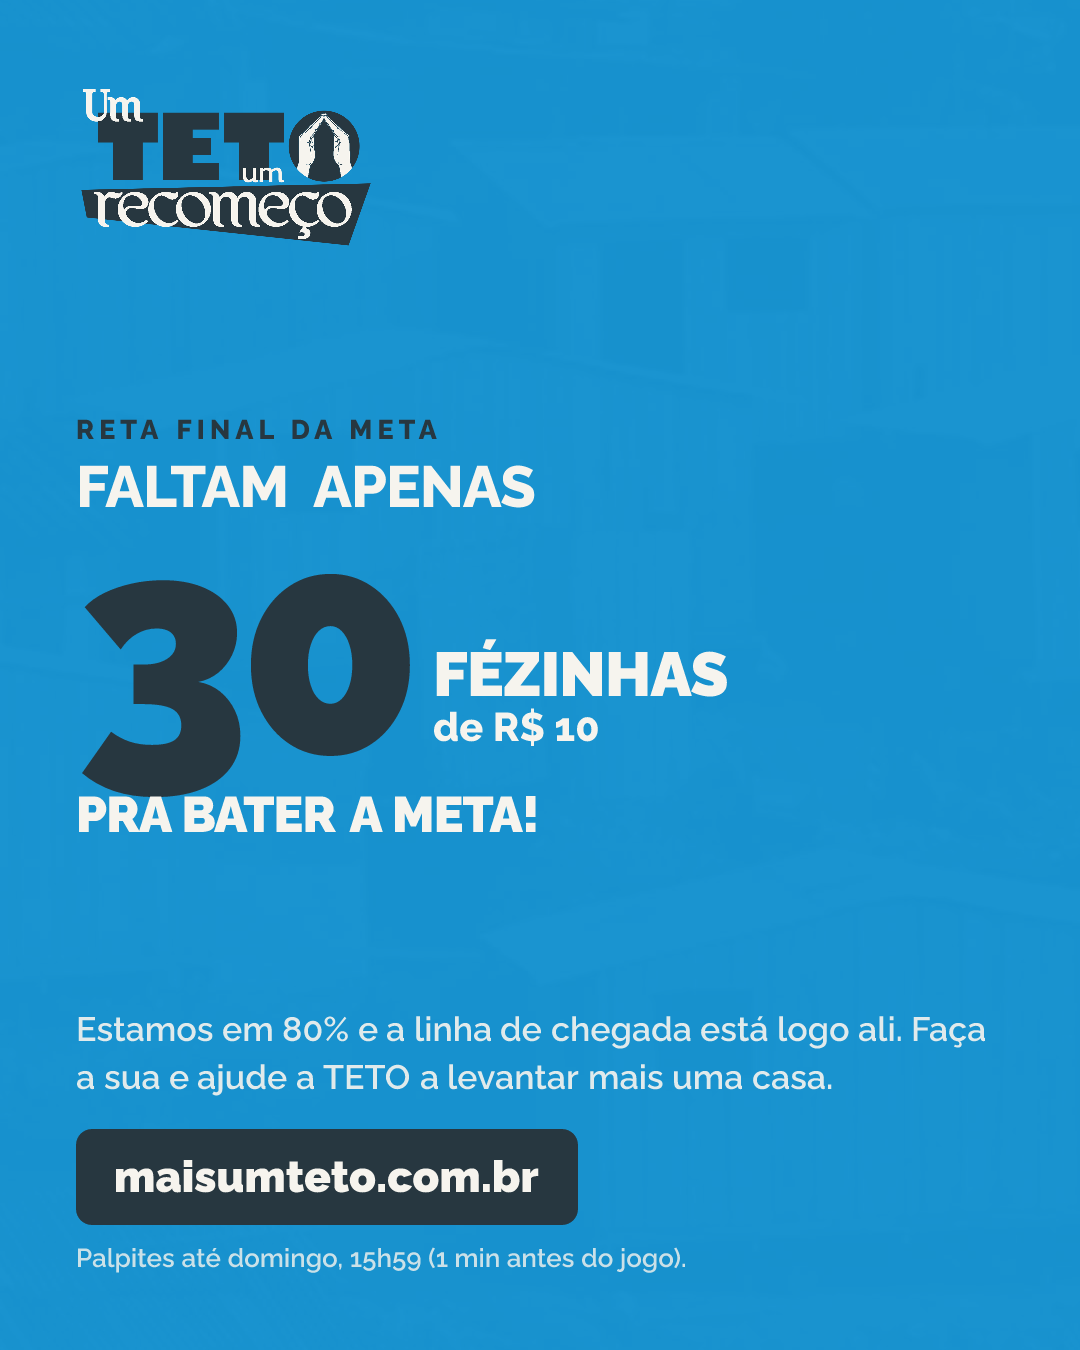
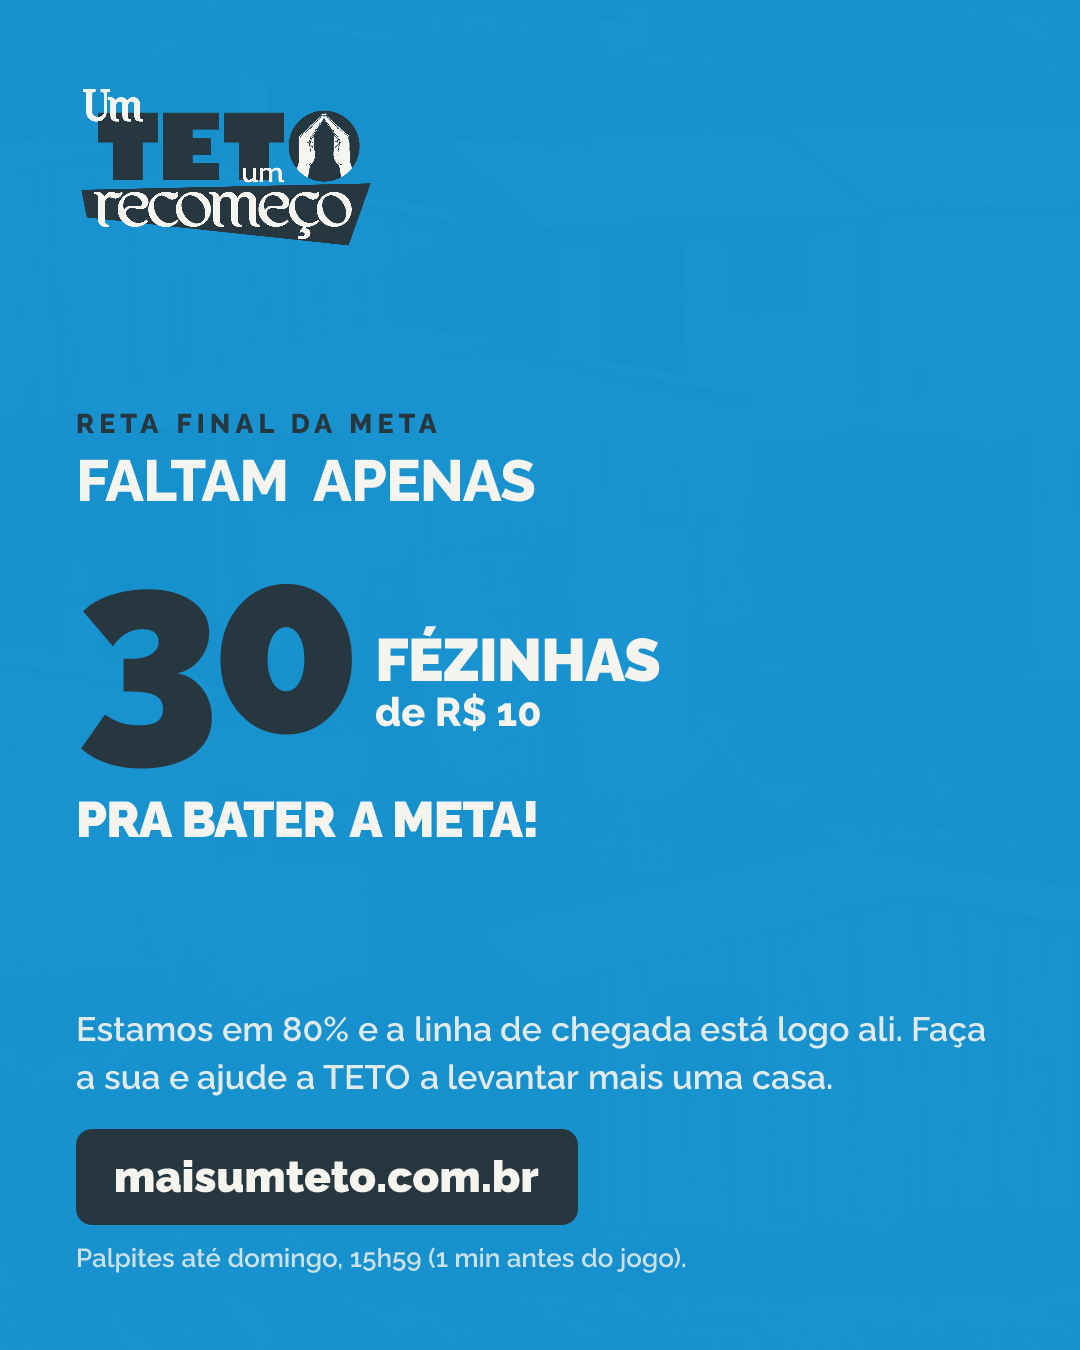
Reta final: numero nao estoura mais na linha de baixo; texto do piloti vira R$750
- Arte v=6: 30 de 300px->248px e lineHeight 0.85->1 (o glifo transbordava e
  encostava em "PRA BATER A META!"), com respiro maior entre as linhas.
- Home: "a cada R$ 750 fixamos um piloti" (com a meta de R$1.500, sao 2 pilotis).

Changed region(s): [[0.0611, 0.4044, 0.6722, 0.6222], [0.0611, 0.28, 0.5194, 0.3733]]

diff --git a/src/app/api/divulgacao/route.tsx b/src/app/api/divulgacao/route.tsx
@@ -375,15 +375,15 @@ export async function GET(req: Request) {
           <div style={{ display: "flex", fontSize: "58px", fontWeight: 800, letterSpacing: "-1px" }}>
             FALTAM APENAS
           </div>
-          <div style={{ display: "flex", alignItems: "flex-end" }}>
+          <div style={{ display: "flex", alignItems: "flex-end", marginTop: "6px" }}>
             <div
               style={{
                 display: "flex",
-                fontSize: "300px",
+                fontSize: "248px",
                 fontWeight: 900,
                 color: GRAFITE,
-                letterSpacing: "-12px",
-                lineHeight: 0.85,
+                letterSpacing: "-10px",
+                lineHeight: 1,
               }}
             >
               {faltamFezinhas}
@@ -392,11 +392,11 @@ export async function GET(req: Request) {
               style={{
                 display: "flex",
                 flexDirection: "column",
-                paddingBottom: "26px",
+                paddingBottom: "34px",
                 paddingLeft: "22px",
               }}
             >
-              <div style={{ display: "flex", fontSize: "62px", fontWeight: 900, letterSpacing: "-1px", lineHeight: 1 }}>
+              <div style={{ display: "flex", fontSize: "60px", fontWeight: 900, letterSpacing: "-1px", lineHeight: 1 }}>
                 FÉZINHAS
               </div>
               <div style={{ display: "flex", fontSize: "40px", fontWeight: 700, lineHeight: 1.1 }}>
@@ -404,7 +404,7 @@ export async function GET(req: Request) {
               </div>
             </div>
           </div>
-          <div style={{ display: "flex", height: "10px" }} />
+          <div style={{ display: "flex", height: "22px" }} />
           <div style={{ display: "flex", fontSize: "50px", fontWeight: 900, letterSpacing: "-1px" }}>
             PRA BATER A META!
           </div>

diff --git a/src/components/ProgressoPiloti.tsx b/src/components/ProgressoPiloti.tsx
@@ -90,7 +90,7 @@ export default function ProgressoPiloti() {
           ajude a <span className="script-azul">fixar o 2º piloti</span>
         </h2>
         <p className="participe-meta">
-          A cada R$ 1000 fixamos um piloti na campanha! O piloti mestre já foi
+          A cada R$ 750 fixamos um piloti na campanha! O piloti mestre já foi
           fixado e agora a meta é fixar mais 1!
         </p>
       </div>